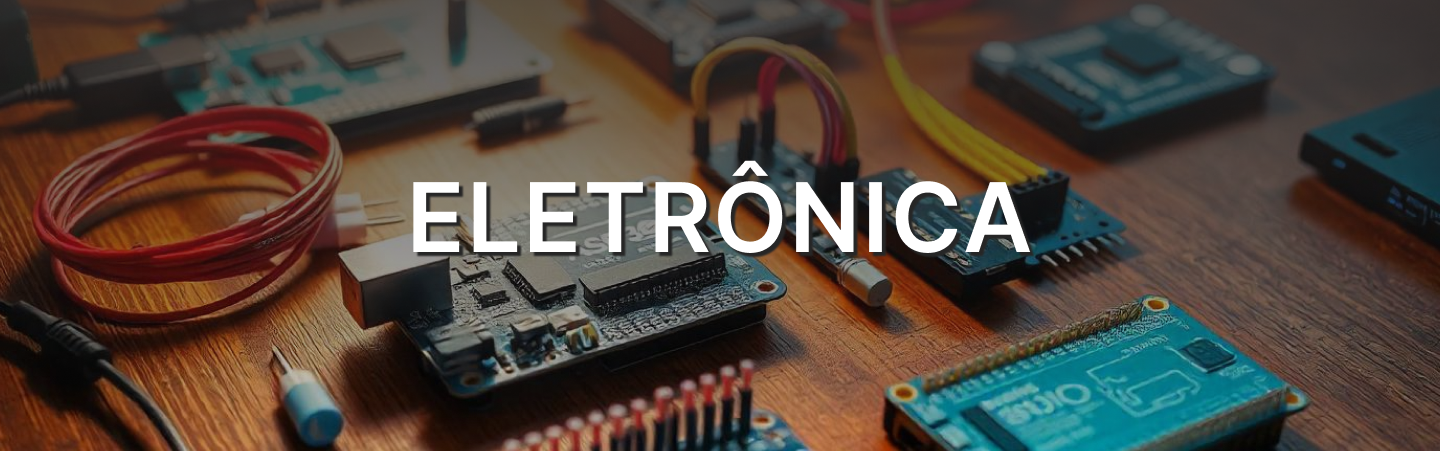
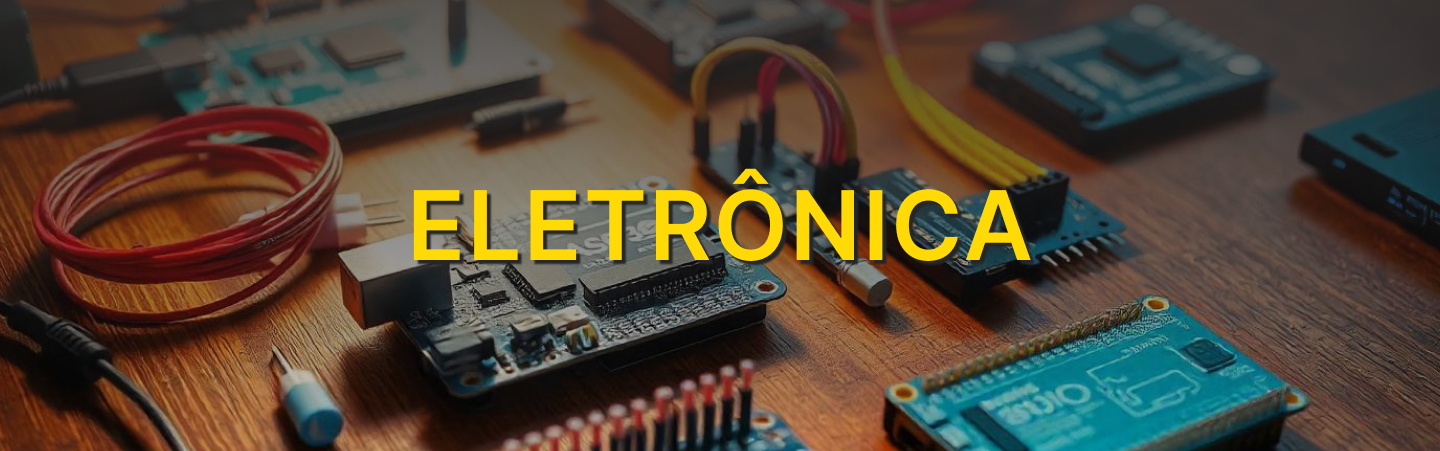
v0.1.2

Changed region(s): [[0.2812, 0.3415, 0.7188, 0.5898]]

diff --git a/Main/WebSite CalangoTec/src/Pages/Subsistema/Eletronica/Eletronica.tsx b/Main/WebSite CalangoTec/src/Pages/Subsistema/Eletronica/Eletronica.tsx
@@ -8,7 +8,7 @@ export default function Eletronica() {
             <div className="flex flex-col gap-16 items-center">
                 <img src={bgeletronica} alt="" className="w-full"/>
                 <div className="w-full flex flex-row justify-start">    
-                    <div className="flex flex-col text-white justify-center text-end items-center bg-gray-800 py-2 sm:py-4 px-8 rounded-br-full rounded-tr-2xl text-xl sm:text-2xl font-[Inter] font-bold w-1/4">
+                    <div className="flex flex-col text-yellow-300 justify-center text-end items-center bg-gray-800 py-2 sm:py-4 px-8 rounded-br-full rounded-tr-2xl text-xl sm:text-2xl font-[Inter] font-bold w-1/4">
                         Sobre o susbistema:
                     </div>
                 </div>

diff --git a/Main/WebSite CalangoTec/src/Pages/Subsistema/Subsistemas.tsx b/Main/WebSite CalangoTec/src/Pages/Subsistema/Subsistemas.tsx
@@ -4,7 +4,12 @@ export default function Subsistemas() {
     return (
         <>
             <h1>Subsistemas</h1>
-            <NavLink to="/subsistemas/eletronica">Eletronica</NavLink>
+            <NavLink to="/subsistemas/eletronica">Eletrônica</NavLink>
+            <NavLink to="/subsistemas/powertrain">Powertrain</NavLink>
+            <NavLink to="/subsistemas/estrutura">Estrutura</NavLink>
+            <NavLink to="/subsistemas/suspensao">Suspensão</NavLink>
+            <NavLink to="/subsistemas/gestao">Gestão</NavLink>
+            <NavLink to="/subsistemas/freios">Freios</NavLink>
         </>
     )
 }

diff --git a/Main/WebSite CalangoTec/src/Pages/Subsistema/Subsistema.tsx b/Main/WebSite CalangoTec/src/Pages/Subsistema/Subsistema.tsx
@@ -6,6 +6,7 @@ export default function Subsistema() {
     const subsistema = useParams().subsistema
     let element = <></>
     if (subsistema === "eletronica") element = <Eletronica />
+    
     return (
         <>
             <Header />
